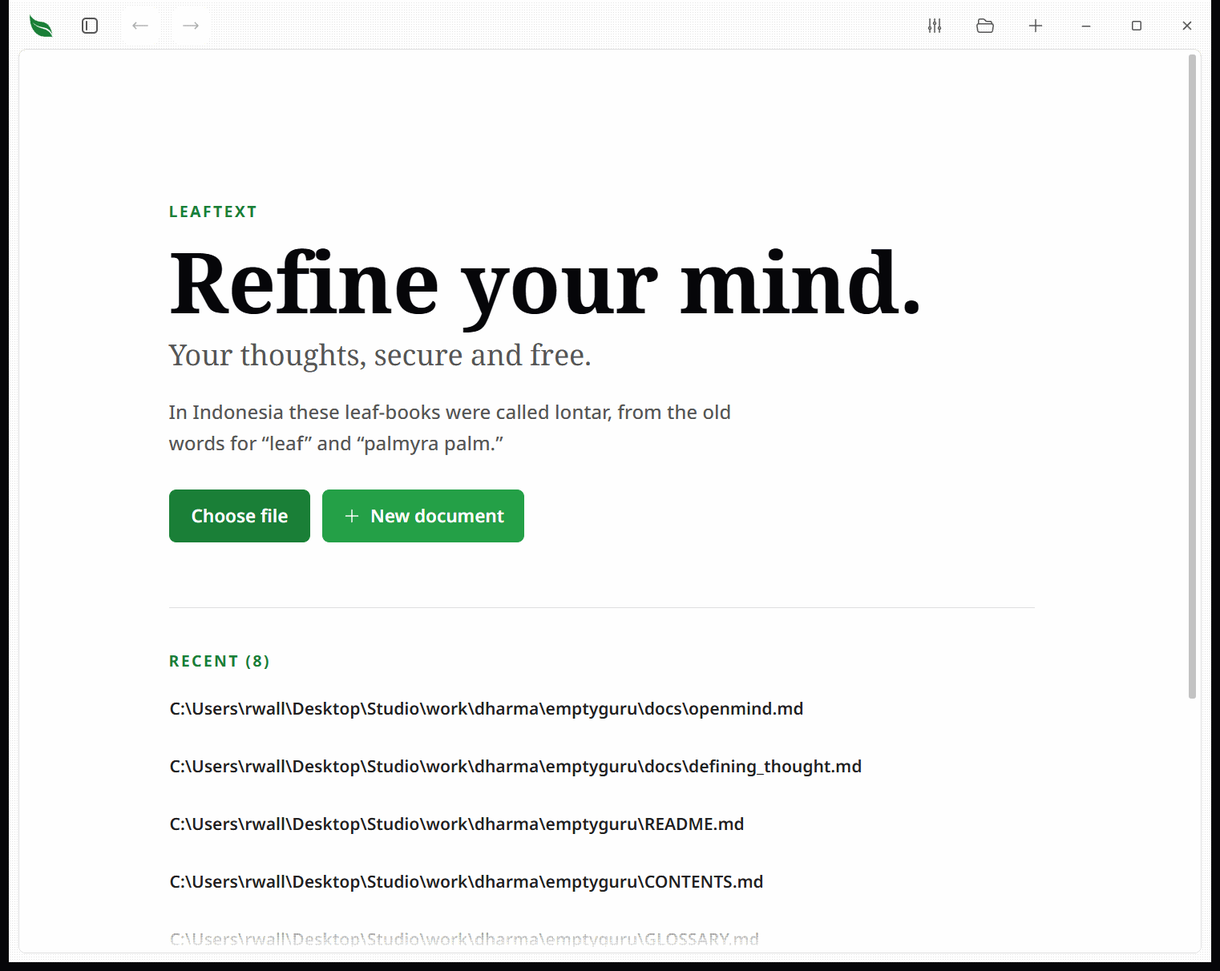
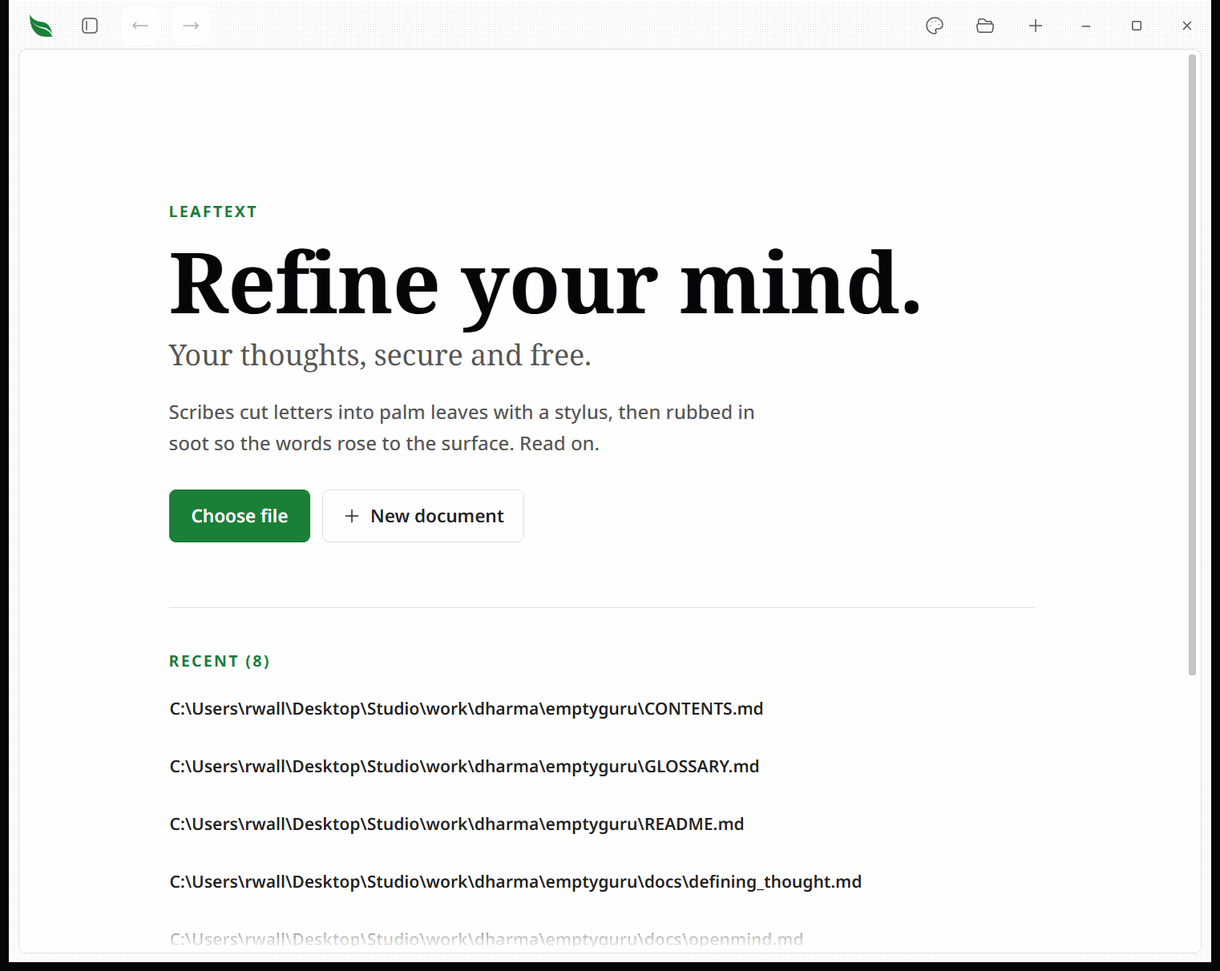
Sweep every Markdown file, not just the published pages
A folder of plans sat unswept because sync-docs worked off a page map written by
hand. check-docs.mjs walks both trees instead and fails on a file no role covers,
so a new folder stops the build until someone says who keeps it true.

The sweep it forces found three stale things: the app bar had no Settings button
but Navigation and the glossary both still named one, the missing-pictures plan
described a panel that is gone, and the building page listed two fewer checks
than run and miscounted the hooks. Retook the three screenshots wearing the old
gear. Editing now says a table keeps its column alignment.

diff --git a/AGENTS.md b/AGENTS.md
@@ -40,7 +40,7 @@ Rust desktop app for reading Markdown, XML, JSON and YAML — rendered document 
 
 ## Layout
 
-**`docs/02-development/01-architecture.md` is the file map** — every module, in more detail than belongs here. The rules that map carries, which no reading of the code will tell you:
+**[`docs/02-development/01-architecture.md`](docs/02-development/01-architecture.md) is the file map** — every module, in more detail than belongs here. The rules that map carries, which no reading of the code will tell you:
 
 - **Both crate roots share `src/`** — `lib.rs` (library) and `main.rs` (binary) — so a bare `mod tests;` in `main.rs` resolves to the library's `src/tests/`. That is why the binary's modules live under `src/app/`.
 - Where a subject is a directory, `mod.rs` holds the shared vocabulary and the pipeline that orders the stages; siblings hold one stage each. A directory's **types** stay module-wide (`pub(super)`); functions open up only where something calls them.
@@ -48,7 +48,7 @@ Rust desktop app for reading Markdown, XML, JSON and YAML — rendered document 
 - **`markdown/rawhtml.rs` is a security boundary** — what raw HTML may keep, standing between hostile input and the web view.
 - **`src/assets/shell/` is one scope, not modules.** The fragments concatenate in `APP_SHELL_SCRIPT_PARTS` order and are **served as `app.js` over `leaf-asset://`**, behind the page's one script tag — the page reaches WebView2 as one string with a ~2 MB ceiling, and the script was 88% of it. There is no module loader, so order is load-bearing and a fragment alone is not a valid program: `journal.js` leads (its error handlers are the only thing that sees a later fragment throw as it loads, and it must reach `window.ipc` directly — `send` in `dom.js` is a `const` in its dead zone until then), the flowchart pair follows (everything else calls into it), `state.js` after that and holding **only** what more than one fragment touches, and the last fragment ends with the bootstrap call. Nothing is substituted into the script, which is why it can be a file at all.
 - **Mermaid diagrams take the theme's own tokens**, mapped in `decorate.js`. Never a per-theme diagram palette. The `cScale` categorical scale is ours, named entry by entry, held to one luminance — v0.1.423 shipped near-black boxes with near-black labels by leaving it to mermaid's arithmetic.
-- **`design/` is the source of a token, `themes/` of a color's value.** `design/colors.md` lists the 82 names and compiles to the contract in `theme.rs`; `design/tokens.md` holds the other 162 values and compiles to `src/assets/tokens.css`; `design/icons.md` lists the icons and compiles to `src/assets/icons.css`, one `.lt-icon-*` mask class each; `design/components.md` is a row per component, with the markup it is drawn with. `gallery.html` — every theme, color, icon and component on one page, at leaftext.com — is built from all four; it is a page in the repo, not a feature in the app. `just bundle-tokens`, `bundle-icons`, `bundle-gallery` and `bundle-design-docs` generate; their `check-` twins fail on drift, on a theme row nobody lists, on an SVG with no row, and on a component with no sample to draw it with. `themes/` holds the values, compiled by `just bundle-themes`. Never edit a generated file. `theme.rs` emits a property for any row it finds, so a stale row would be dead CSS in every theme.
+- **`design/` is the source of a token, `themes/` of a color's value.** [`design/colors.md`](design/colors.md) lists the 82 names and compiles to the contract in `theme.rs`; [`design/tokens.md`](design/tokens.md) holds the other 162 values and compiles to `src/assets/tokens.css`; [`design/icons.md`](design/icons.md) lists the icons and compiles to `src/assets/icons.css`, one `.lt-icon-*` mask class each; [`design/components.md`](design/components.md) is a row per component, with the markup it is drawn with. `gallery.html` — every theme, color, icon and component on one page, at leaftext.com — is built from all four; it is a page in the repo, not a feature in the app. `just bundle-tokens`, `bundle-icons`, `bundle-gallery` and `bundle-design-docs` generate; their `check-` twins fail on drift, on a theme row nobody lists, on an SVG with no row, and on a component with no sample to draw it with. [`themes/`](themes/README.md) holds the values — one file per family, all eleven linked from that folder's own page — compiled by `just bundle-themes`. Never edit a generated file. `theme.rs` emits a property for any row it finds, so a stale row would be dead CSS in every theme.
 - **An icon reaches the page as a name, not a drawing** — `<span class="lt-icon lt-icon-back">` — so one used five times is in the app once. A mask reads only alpha, so the control's own `currentColor` paints it, and a control with a bolder active state swaps to a second mask (`--lt-icon-*-heavy`) rather than thickening a stroke a mask does not have — the same reason a `stroke-width` in `reading.css` aimed at an `.lt-icon` does nothing. Even the broken-image mark is a mask: it stays an `<img>` so a later fetch can go back to its own source, with `src` on a transparent pixel purely to stop the platform drawing its glyph over ours. **The line weight is `design/icons.md`'s, not the drawing's** — a `Stroke` cell per row, one of three named weights, stamped over whatever the file was saved at; `just check-icons` names a file that disagrees. Seven weights had drifted in before that column existed.
 - **Every class in `reading.css` is accounted for in `design/components.md`** — as a component (with the markup the gallery draws it with), as something a rendered document brings, or as a state. `just check-classes` fails on one that is not, so new interface joins the design system rather than growing beside it, and a component that appears there appears in the gallery by existing.
 - **No hand-written value in `reading.css`.** A color, spacing, text size, weight, stroke, line height, letter spacing, opacity, duration, easing, shadow or layer comes from a token; `just check-literals` fails on one and names the line. Widths, heights, positional offsets and a document's `em` sizing are not tokens — they are one component's geometry, or they follow the text.
@@ -56,25 +56,25 @@ Rust desktop app for reading Markdown, XML, JSON and YAML — rendered document 
 
 ## Skills
 
-In `.agents/skills/`, which `.claude/` and `.codex/` symlink to. Invoke by name.
+In [`.agents/skills/`](.agents/skills/), which `.claude/` and `.codex/` symlink to. Invoke by name; each row links the file that defines it.
 
 | skill | when |
 | --- | --- |
-| `check` | before handing work back. Runs `sync-tests`, then `just verify`, and names anything the change left untested. |
-| `sync-tests` | the change needs a test that would have caught it. `check` calls it. |
-| `sync-docs` | app behavior changed, or before a release. Edits `docs/`, never git. |
-| `code-comments` | the comment bar, in one place: why not what, one line if it fits, cut the drafting history. |
-| `design-tokens` | changing how the app looks. A value goes in `design/`, never into a rule. |
-| `add-dependency` | a new crate. Reports what it drags in, then asks. |
-| `add-format` | teaching the app another file type. One arm in `format.rs`. |
-| `shell-fragment` | adding, splitting or reordering a front-end fragment. Order is load-bearing. |
-| `ticket` | scoping work instead of building it. Writes a phased plan with checkboxes into `../docs/features/` or `../docs/refactor/`, and keeps `../docs/README.md` — the one line per ticket that says what shipped, what is planned and what was turned down. Read that index before planning anything; it is the only thing standing between a new plan and one this tree already answered. |
-| `refine` | reviewing a ticket before anyone builds it. Opens every line it cites, holds the plan against the rules here, fixes it, and records what was wrong. |
-| `git-release` | only on `/git-release`. Runs `sync-docs`, `code-comments` and `check`, then commits, tags and pushes. |
+| [`check`](.agents/skills/check/SKILL.md) | before handing work back. Runs `sync-tests`, then `just verify`, and names anything the change left untested. |
+| [`sync-tests`](.agents/skills/sync-tests/SKILL.md) | the change needs a test that would have caught it. `check` calls it. |
+| [`sync-docs`](.agents/skills/sync-docs/SKILL.md) | app behavior changed, or before a release. Edits `docs/` and the ticket index next door, never git. |
+| [`code-comments`](.agents/skills/code-comments/SKILL.md) | the comment bar, in one place: why not what, one line if it fits, cut the drafting history. |
+| [`design-tokens`](.agents/skills/design-tokens/SKILL.md) | changing how the app looks. A value goes in `design/`, never into a rule. |
+| [`add-dependency`](.agents/skills/add-dependency/SKILL.md) | a new crate. Reports what it drags in, then asks. |
+| [`add-format`](.agents/skills/add-format/SKILL.md) | teaching the app another file type. One arm in `format.rs`. |
+| [`shell-fragment`](.agents/skills/shell-fragment/SKILL.md) | adding, splitting or reordering a front-end fragment. Order is load-bearing. |
+| [`ticket`](.agents/skills/ticket/SKILL.md) | scoping work instead of building it. Writes a phased plan with checkboxes into `../docs/features/` or `../docs/refactor/`, and keeps `../docs/README.md` — the one line per ticket that says what shipped, what is planned and what was turned down. Read that index before planning anything; it is the only thing standing between a new plan and one this tree already answered. |
+| [`refine`](.agents/skills/refine/SKILL.md) | reviewing a ticket before anyone builds it. Opens every line it cites, holds the plan against the rules here, fixes it, and records what was wrong. |
+| [`git-release`](.agents/skills/git-release/SKILL.md) | only on `/git-release`. Runs `sync-docs`, `code-comments` and `check`, then commits, tags and pushes. |
 
 ## Hooks
 
-In `.claude/settings.json`, pointing at `scripts/`. Each runs by hand with `--check`, and `just verify` runs all four.
+In [`.agents/settings.json`](.agents/settings.json) — `.claude/settings.json` is the same file through the symlink — pointing at `scripts/`. Each runs by hand with `--check`, and `just verify` runs all four.
 
 - `gate-rules.mjs` on `UserPromptSubmit` — prints Rule 1 out of this file before every message, plus a line for whatever the message touches, and records the license in `.tmp/git-license`. Granted only when the message **starts** with `/git-release`: matching it anywhere let a message that merely quoted the string release v0.1.442. It also keeps the last 20 raw payloads in `.tmp/prompt-payloads.jsonl`, untracked — the license turns on what the host puts in `prompt`, and a turn where that went wrong is otherwise unreconstructable.
 - `gate-git.mjs` on the shell tools — refuses a git write when that file does not say the license was given this turn.
@@ -97,7 +97,7 @@ In `.claude/settings.json`, pointing at `scripts/`. Each runs by hand with `--ch
 
 ## Commands
 
-Needs `rustup`, `just`, `node`. `/check` is the gate before handing work back: `just verify` (fmt, check, test, vendor + theme + token + icon + gallery + docs drift, no hand-written values, US spelling, front-end boot, identity, the two hooks) with a test pass in front of it. `just check` / `test` / `format` / `check-shell` run individually.
+Needs `rustup`, `just`, `node`. `/check` is the gate before handing work back: `just verify` (fmt, check, test, vendor + theme + token + icon + gallery + docs drift, no hand-written values, US spelling, every Markdown file has something keeping it true, front-end boot, identity, the two hooks) with a test pass in front of it. `just check` / `test` / `format` / `check-shell` run individually.
 
 Mac code and the installer cannot be built on this machine, and never have been. **Never say so.** Not as a caveat, not as a footnote, not "it ships unproven", not when the change is in one of them — that is exactly when it is most obvious and least worth a line. GitHub builds both on a tagged release and a break shows up there. It is true every single time, so saying it is the padding Rule 1 refuses. The one exception is a direct question about it.
 

diff --git a/.agents/skills/sync-docs/SKILL.md b/.agents/skills/sync-docs/SKILL.md
@@ -1,13 +1,13 @@
 ---
 name: sync-docs
-description: Update the docs under docs/ (and the /docs site nav) so they match the current app. Reviews recent app/feature changes and edits the right doc page(s), keeping them renderable by the leaftext web renderer, takes any screenshot a page asks for and does not have, lints the whole set for the faults that live between pages (two pages contradicting each other, a stale count, a page nothing links to, a word used everywhere and defined nowhere, something learned this session and written down nowhere), then regenerates the SEO/AIO/LLM discovery files (robots.txt, sitemap.xml, sitemap-md.txt, llms.txt, llms-full.txt) so search and AI crawlers stay current. Run it before a release or whenever app behavior changes. Never touches git. Use when the user says "sync the docs", "update the docs", "bundle the docs", "refresh documentation", "update the sitemap/llms.txt", "lint the docs", or "make the docs match the code".
+description: Update the docs under docs/ (and the /docs site nav) so they match the current app. Reviews recent app/feature changes and edits the right doc page(s), keeping them renderable by the leaftext web renderer, takes any screenshot a page asks for and does not have, lints the whole set for the faults that live between pages (two pages contradicting each other, a stale count, a page nothing links to, a word used everywhere and defined nowhere, something learned this session and written down nowhere), then sweeps every other Markdown file in the repo and in the plan tree next door — enumerated off the disk by scripts/check-docs.mjs, so a page added anywhere is caught rather than remembered — moving a plan that now ships into done and its row in the ticket index with it, then regenerates the SEO/AIO/LLM discovery files (robots.txt, sitemap.xml, sitemap-md.txt, llms.txt, llms-full.txt) so search and AI crawlers stay current. Run it before a release or whenever app behavior changes. Never touches git. Use when the user says "sync the docs", "update the docs", "bundle the docs", "refresh documentation", "update the sitemap/llms.txt", "lint the docs", or "make the docs match the code".
 argument-hint: "[topic | since-ref]"
 user-invocable: true
 ---
 
 # Sync Docs
 
-Keep the user-facing documentation in `docs/` truthful to the app. This is a **docs-only** task: edit Markdown (and, if pages are added or removed, the site nav and README list), take any screenshot a page asks for and does not have (step 5), lint the whole set for the faults that live between pages (step 6), then regenerate the SEO/AIO/LLM discovery files with `scripts/seo-gen.mjs` (step 7). **Never run git** — releasing is a separate step handled by `/git-release`.
+Keep the user-facing documentation in `docs/` truthful to the app. This is a **docs-only** task: edit Markdown (and, if pages are added or removed, the site nav and README list), take any screenshot a page asks for and does not have (step 5), lint the whole set for the faults that live between pages (step 6), sweep every Markdown file in the repo and the plan tree next door, read off the disk rather than off a list (step 7), then regenerate the SEO/AIO/LLM discovery files with `scripts/seo-gen.mjs` (step 8). **Never run git** — releasing is a separate step handled by `/git-release`.
 
 The docs are served at **leaftext.com/docs** by the static SPA in `docs/` (`index.html` + `docs.js` + `docs.css`). Each page is a plain `.md` file; `docs.js` renders it with the same renderer the root site uses (`site/markdown.js`) and routes by `#/<path>` (a route is the file path under `docs/` without `.md`).
 
@@ -210,7 +210,46 @@ any time a change spanned more than one page.
 
 Say what the lint found in the hand-back, including anything left unfixed and why.
 
-### 7. Regenerate the SEO / AIO / LLM discovery files
+### 7. Every Markdown file, not just the published pages
+
+The page map in step 2 covers what the app publishes. It is not the whole set of
+writing this session can have made untrue, and a map written by hand is exactly
+what misses a folder somebody added last week. **Read the set off the disk:**
+
+```bash
+just check-docs                     # fail on a file no role covers
+node scripts/check-docs.mjs --list  # every Markdown file in both trees, and its role
+```
+
+The list is generated by walking the folders, so a page added anywhere shows up
+without anyone editing anything. **Work down it and ask one question of each file:
+did this session make a word of it untrue?** Only files where the answer is yes get
+edited — this is a sweep, not a rewrite of 150 documents.
+
+What each role means in practice:
+
+| Role | What makes it untrue, and what to do |
+|:--|:--|
+| **published** (`docs/`) | Behavior changed. Step 2's map says which page; step 3 says how to edit it |
+| **source of a token / a color** (`design/`, `themes/`) | Never edited here. A value changes in `design/` and the bundlers regenerate — see [`/design-tokens`](../design-tokens/SKILL.md) |
+| **a repeatable job** (`.agents/skills/`) | The steps a skill names moved, or a rule it enforces changed. A skill describing a script or a path that no longer exists is worse than no skill |
+| **the guide** (`AGENTS.md`, and `README.md`) | A standing rule changed, or the repo grew a file the guide's tables do not reach. Never a log of what shipped |
+| **a license notice** (`src/assets/*-MIT.md`) | Only when what is vendored changes |
+| **installer text** (`wix/`) | Only when the install flow changes |
+| **plan** (`../docs/features/`, `../docs/refactor/`, `../docs/fixes/`) | **The one this step exists for.** A plan for something that now ships is the most misleading writing in either tree: move the file to `../docs/done/`, and move its row in [`../docs/README.md`](../../../../docs/README.md) under Shipped saying what shipped. A plan half-built gets the built part struck through, not deleted |
+| **the running order** (`../docs/plans/`) | Each file is dated and ranks the live tickets on that date. When one ships, the newest ranking's rows about it are wrong. **Do not rewrite a dated ranking** — the date is the point. Note it in the index row, or write a new dated one |
+| **the ticket index** (`../docs/README.md`) | Its "What the folders mean" paragraph names every folder next door, and its "Needs a second look" table holds every ticket whose own status disagrees with the folder it sits in. A new folder or a settled status lands here |
+| **shipped / canceled / a test document** | Kept for the reasoning. Left alone unless it is now factually wrong about the app |
+
+**A file with no role fails `just check-docs` and names itself.** That is the
+backstop: add a new kind of document and the suite stops until this table says who
+keeps it true. Fixing it means adding the folder to `ROLES` in
+`scripts/check-docs.mjs` *and* a row above — never just the script.
+
+Never link from `docs/` into `../docs/`: those pages are published and that folder
+is not. Links only go the other way.
+
+### 8. Regenerate the SEO / AIO / LLM discovery files
 
 The files AI crawlers and search engines read are generated from the docs, not hand-maintained. After editing docs — and always after adding or removing a page — regenerate them:
 
@@ -228,11 +267,11 @@ It rewrites five files at the repo root (the deployed site root) from `README.md
 
 Page list, titles, summaries, and `<lastmod>` dates are all derived from the current files, so there is no list to maintain by hand. It is deterministic — byte-identical output for the same tree, so a no-op run leaves git untouched. (`<lastmod>` reads the last commit date per file; it refreshes on the next run after you commit.)
 
-### 8. Verify
+### 9. Verify
 
 - Grep the changed files for leftovers: no `<Tabs`, `<Card`, `<Step`, `<Note`, `<Tip`, `<Warning`, `<Accordion`, or `theme={null}`.
 - `node scripts/doc-images.mjs` — every picture a touched page asks for is there, and any that are not are named in the hand-back with the reason.
-- Re-run `node scripts/seo-gen.mjs` and confirm it leaves the discovery files unchanged (a dirty tree here means step 7 was skipped or a doc changed after it ran).
+- Re-run `node scripts/seo-gen.mjs` and confirm it leaves the discovery files unchanged (a dirty tree here means step 8 was skipped or a doc changed after it ran).
 - For every touched page, confirm each Summary/overview table, shortcut list, and enumerated command/settings/feature table matches the source one-for-one — no stale, missing, or extra rows.
 - Confirm every internal link resolves to a real `.md` / route, and that each `#anchor` (including the anchor half of a deep link) matches a real heading slug on the target page.
 - Scan touched pages and the README intro for feature/concept names left as plain text that have a doc page or section — link them, deep-linking to the section anchor where one exists.
@@ -250,7 +289,7 @@ Page list, titles, summaries, and `<lastmod>` dates are all derived from the cur
   node docs/render-docs-check.mjs   # renders every docs/*.md and fails on a throw
   ```
 
-### 9. Hand back — do NOT release
+### 10. Hand back — do NOT release
 
 Leave the changes uncommitted. Tell the user what pages changed, and what the lint
 found that is still open. If they want it published, that is a separate, explicit `/git-release` (site-only: no version bump).

diff --git a/docs/02-development/02-building.md b/docs/02-development/02-building.md
@@ -47,13 +47,13 @@ Before submitting a contribution, run the full suite:
 just verify
 ```
 
-This runs formatting, type checking, the tests, the drift checks over everything that is generated, the design-system rules, the spelling check, the front-end check, and the two repo guards, in sequence. All steps must pass. The `verify` recipe is defined in the project `Justfile` as:
+This runs formatting, type checking, the tests, the drift checks over everything that is generated, the design-system rules, the spelling check, the front-end check, the docs-coverage check, and the repo guards, in sequence. All steps must pass. The `verify` recipe is defined in the project `Justfile` as:
 
 ```text
-verify: format-check check test check-vendor check-themes check-tokens check-icons check-gallery check-design-docs check-classes check-literals check-verify check-spelling check-shell check-identity check-hooks
+verify: format-check check test check-vendor check-themes check-tokens check-icons check-gallery check-design-docs check-classes check-literals check-verify check-spelling check-docs check-shell check-identity check-hooks check-mcp
 ```
 
-The design-system steps are the ones worth knowing about. `check-tokens`, `check-icons`, `check-gallery` and `check-design-docs` fail when a generated file has drifted from the four files in `design/` it is built from — the stylesheet's fixed values, the icon classes, the page at [leaftext.com/gallery.html](https://leaftext.com/gallery.html), and [Design system](05-design-system.md). `check-classes` fails on a class in `reading.css` that `design/components.md` does not account for, so new interface joins the design system rather than growing beside it. `check-literals` fails on a color, size, spacing or duration typed into `reading.css` instead of coming from a value. `check-verify` fails when a check exists but this recipe does not run it. `check-identity` fails on an assistant credited anywhere in the repo or its history, and `check-hooks` self-tests the three hooks.
+The design-system steps are the ones worth knowing about. `check-tokens`, `check-icons`, `check-gallery` and `check-design-docs` fail when a generated file has drifted from the four files in `design/` it is built from — the stylesheet's fixed values, the icon classes, the page at [leaftext.com/gallery.html](https://leaftext.com/gallery.html), and [Design system](05-design-system.md). `check-classes` fails on a class in `reading.css` that `design/components.md` does not account for, so new interface joins the design system rather than growing beside it. `check-literals` fails on a color, size, spacing or duration typed into `reading.css` instead of coming from a value. `check-verify` fails when a check exists but this recipe does not run it. `check-docs` fails on a Markdown file — in this repo or the plan folder beside it — that no role covers, so a new kind of document has to say who keeps it true rather than quietly going stale. `check-identity` fails on an assistant credited anywhere in the repo or its history, and `check-hooks` self-tests the four hooks.
 
 A passing `just verify` is the baseline requirement before handing any work back.
 
@@ -63,7 +63,7 @@ Theme palettes work the same way: `src/assets/themes.md` (embedded in the binary
 
 Spelling comes next: this repo writes US English, so `check-spelling` fails on the British form of any word in `scripts/check-spelling.mjs`'s list — the `-our` spelling of "color", for one. It reads only files the repo authors: vendored bundles, build output, and generated files are skipped, and the two identifiers that are British by specification (`aria-labelledby`, WiX's `ProgramMenuFolder`) are exempt.
 
-The last step is `check-shell`, which runs the WebView front-end rather than reading it. The script fragments in `src/assets/shell/` are concatenated the way the binary concatenates them and executed against a stand-in page built from the ids and classes the real markup declares, so nothing has to be listed twice. It fails if the script does not parse, if it throws as it loads — which is what a declaration moved below its first use does, and the reason fragment order is load-bearing — or if the code view's edit arithmetic is wrong. That last one matters most: the editor sends the host only the part of the text that changed, and the host splices it into what it writes to disk, so each case is checked by rebuilding the new text from the splice.
+`check-shell` runs the WebView front-end rather than reading it. The script fragments in `src/assets/shell/` are concatenated the way the binary concatenates them and executed against a stand-in page built from the ids and classes the real markup declares, so nothing has to be listed twice. It fails if the script does not parse, if it throws as it loads — which is what a declaration moved below its first use does, and the reason fragment order is load-bearing — or if the code view's edit arithmetic is wrong. That last one matters most: the editor sends the host only the part of the text that changed, and the host splices it into what it writes to disk, so each case is checked by rebuilding the new text from the splice.
 
 ## Individual tasks
 
@@ -85,9 +85,10 @@ Each step in the verification pipeline can also be run on its own:
 | Values written by hand | `just check-literals` | Fail on a color, size, spacing or duration typed into `reading.css` |
 | Suite check  | `just check-verify`         | Fail when a check exists that `verify` does not run |
 | Spelling     | `just check-spelling`       | Fail on British spelling in the repo's own writing |
+| Docs coverage | `just check-docs`          | Fail on a Markdown file that nothing keeps true. `node scripts/check-docs.mjs --list` prints every one and its role |
 | Front end    | `just check-shell`          | Run the page's script against a stand-in page: it parses, it boots, and its edit offsets are right |
 | Identity     | `just check-identity`       | Fail on an assistant credited in the repo or its history |
-| Hooks        | `just check-hooks`          | Self-test the three hooks |
+| Hooks        | `just check-hooks`          | Self-test the four hooks |
 | Ask pipe     | `just check-mcp`            | Fail when the MCP wrapper and `src/pipe.rs` disagree about what can be asked, or where |
 | Full verify  | `just verify`               | All steps above in sequence                    |
 

diff --git a/docs/01-features/07-editing.md b/docs/01-features/07-editing.md
@@ -51,6 +51,7 @@ The **+** beside Open in the app bar starts a blank document in a new tab. The h
 The rendered page is a live editor. The **source stays the single source of truth** — every edit is anchored to the exact byte range of the source it came from and spliced back there, so what you see and what is saved never drift apart. Editing is intentional per block and never rewrites parts of the file you did not touch.
 
 - **Click into a sentence and type.** Paragraphs, headings, **lists, tables, and block quotes** edit in place with their styling intact — bold stays bold, links stay links, table pipes, list markers, and `>` prefixes are rewritten for you — and your change is written back into the Markdown at that spot. Interactive **checkboxes** toggle their `[ ]` / `[x]` marker in the source, in task lists and [table cells](01-rendering.md#tables) alike. A checkbox is a quick action rather than an edit: it saves to disk immediately, records no undo step, and stays clickable even when reading-view editing is turned off.
+- **A table keeps its column alignment.** The `:---` / `:---:` / `---:` markers in the divider row survive an edit, including one that changes how many columns the table has — the row is rebuilt from the alignment each column is already drawn with, rather than copied from the old source. See [Tables](01-rendering.md#tables).
 - **Blocks behave like a block editor.** `Enter` splits a block at the caret — a split heading stays a heading at the same level — or starts a fresh paragraph when pressed at the end (keep pressing to keep writing). `Shift+Enter` inserts a line break, and `Backspace` at the very start of a block merges it into the one above, with the caret staying put. In a list, `Enter` adds an item and `Backspace` joins items.
 - **Every other block edits its exact source.** Code blocks, [alerts](01-rendering.md#blockquotes-and-alerts), loose lists, blocks with images, footnotes, or math, and blocks containing raw HTML tags outside a small safe set (links, line breaks, bold, italic, strikethrough, inline code, and the inline HTML tags Leaftext can rebuild exactly — `<abbr>`, `<kbd>`, `<mark>`, `<ins>`, `<sub>`, `<sup>`, `<span>`, and `<div>`) open their raw source in place when you click them, then splice back on the way out. This is also how **[XML](01-rendering.md#xml)** edits: XML carries meaning the rendered HTML cannot reconstruct, so an XML block is edited as its true source.
 - **A code block hands you the code, not the fences.** Click into one and you get what is inside the ``` ``` ``` lines; the fences and the language tag stay out of reach, so there is no way to backspace through them and lose the block. Delete every line and you still have an empty code block. An indented code block has no fences to hide, and neither does an unterminated one — those open whole, as before.

diff --git a/docs/01-features/02-navigation.md b/docs/01-features/02-navigation.md
@@ -48,6 +48,9 @@ flowchart LR
 | Save (with [unsaved edits](07-editing.md#save)) | `Ctrl+S` | `Cmd+S` |
 | [Undo](07-editing.md#undo) the last reading-view edit | `Ctrl+Z` | `Cmd+Z` |
 | Select the page (reading view) | `Ctrl+A` | `Cmd+A` |
+| [Bold](07-editing.md#the-format-bar) the highlighted words | `Ctrl+B` | `Cmd+B` |
+| [Italic](07-editing.md#the-format-bar) the highlighted words | `Ctrl+I` | `Cmd+I` |
+| [Link](07-editing.md#the-format-bar) the highlighted words | `Ctrl+K` | `Cmd+K` |
 
 Tab cycling is `Ctrl`-based on every platform, including macOS. Mouse side buttons also trigger Back and Forward.
 
@@ -57,9 +60,11 @@ Two bars. The one at the top is about the app; the one floating at the foot of t
 
 ### The app bar
 
-![The Leaftext app bar across the top of the window: the leaf mark, the library button, Back and Forward, the tab strip, then Open, plus and Settings at the right](../../imgs/navigation.png)
+![The Leaftext app bar across the top of the window: the leaf mark, the library button, Back and Forward, the tab strip, then the theme palette, Open and plus at the right](../../imgs/navigation.png)
 
-The leaf mark at the left is the way home — click it to return to the no-file screen. Beside it sit the library button, Back and Forward, then the tab strip, and at the right Open, **+** ([new document](07-editing.md#new-document)) and Settings. Those three are about the app rather than the document, which is why they are up here and not on the floating toolbar.
+The leaf mark at the left is the way home — click it to return to the no-file screen. Beside it sit the library button, Back and Forward, then the tab strip, and at the right the palette that opens the [theme picker](06-themes.md#choose), Open, and **+** ([new document](07-editing.md#new-document)). Those are about the app rather than the document, which is why they are up here and not on the floating toolbar.
+
+**There is no Settings button.** Every control stands where it applies — see [Settings](05-settings.md). The one thing that comes and goes is the [update](05-settings.md#updates) bell, which is in the bar only while there is something to download or install.
 
 On Windows the app bar doubles as the title bar — see [Themes → Windows](06-themes.md#windows).
 

diff --git a/README.md b/README.md
@@ -289,3 +289,17 @@ Other [`Justfile`](Justfile) tasks:
 | Cut a release | `just release <version>` |
 
 `just release` commits the version bump, tags, and pushes — CI builds the Windows MSI and the macOS DMG.
+
+### Every written file in the repo
+
+The prose, the design sources, and the guidance an agent reads — each of these links onward to the rest of its own set, so nothing in the tree is reachable only by knowing it is there.
+
+| Where | What is in it |
+|:--|:--|
+| [Documentation](docs/README.md) | Every page published at [leaftext.com/docs](https://leaftext.com/docs), listed above |
+| [Glossary](docs/GLOSSARY.md) | Every word Leaftext uses for a part of itself |
+| [Agent guide](AGENTS.md) | The standing rules for anyone — person or agent — changing this repo. `CLAUDE.md` and `CODEX.md` are the same file. Its tables link the eleven [skills](.agents/skills/) and the [hook settings](.agents/settings.json) |
+| [Design sources](docs/02-development/05-design-system.md) | [Colors](design/colors.md), [tokens](design/tokens.md), [icons](design/icons.md) and [components](design/components.md) — the four files every value in the interface is compiled from |
+| [Themes](themes/README.md) | The eleven families, one Markdown file each, with the colors they set. `just bundle-themes` compiles them into [one bundle](src/assets/themes.md) the app reads at startup |
+| Third-party notices | [Heroicons](src/assets/Heroicons-MIT.md), [KaTeX](src/assets/KaTeX-MIT.md), [Lucide](src/assets/Lucide-ISC.md), [Noto](src/assets/Noto-OFL.md) — the licenses of what is vendored into the app |
+| Crawler files | [`robots.txt`](robots.txt), [`sitemap.xml`](sitemap.xml), [`sitemap-md.txt`](sitemap-md.txt), [`llms.txt`](llms.txt), [`llms-full.txt`](llms-full.txt) — generated from this file and `docs/` by `scripts/seo-gen.mjs` |

diff --git a/.agents/skills/check/SKILL.md b/.agents/skills/check/SKILL.md
@@ -1,6 +1,6 @@
 ---
 name: check
-description: The gate before work is handed back or released. Runs /sync-tests so the change has a test, then `just verify` — sixteen steps: formatting, compile, tests, no hand-written value in the stylesheet, every class and token and icon and component listed in `design/`, the gallery and the published design page in step with it, US spelling, the front-end boots, no assistant identity in the repo, the two hooks, and that every check is in the suite. A failure is fixed and re-run, never explained past. Never mentions that the Mac build, the installer or the GitHub workflows do not run here — that is true every time and GitHub builds them on a tagged release. Never touches git. Use when the user says "check it", "verify", or before handing work back; /git-release calls it before it commits.
+description: The gate before work is handed back or released. Runs /sync-tests so the change has a test, then `just verify` — eighteen steps: formatting, compile, tests, no hand-written value in the stylesheet, every class and token and icon and component listed in `design/`, the gallery and the published design page in step with it, US spelling, every Markdown file in the repo and the plan tree next door covered by something that keeps it true, the front-end boots, no assistant identity in the repo, the two hooks, and that every check is in the suite. A failure is fixed and re-run, never explained past. Never mentions that the Mac build, the installer or the GitHub workflows do not run here — that is true every time and GitHub builds them on a tagged release. Never touches git. Use when the user says "check it", "verify", or before handing work back; /git-release calls it before it commits.
 argument-hint: ""
 user-invocable: true
 ---

diff --git a/docs/GLOSSARY.md b/docs/GLOSSARY.md
@@ -16,8 +16,11 @@ called a callout. See [Rendering](01-features/01-rendering.md#blockquotes-and-al
 ## App bar
 
 The strip along the top of the window: the leaf mark, the [library pane](GLOSSARY.md#library-pane)
-button, Back and Forward, the [tab](GLOSSARY.md#tab) strip, then Open, **+** and
-Settings at the right. On Windows it is also the title bar — drag it to move the
+button, Back and Forward, the [tab](GLOSSARY.md#tab) strip, then the palette that
+opens the [theme picker](GLOSSARY.md#theme-picker), Open and **+** at the right.
+There is no Settings button; the [update bell](GLOSSARY.md#update-bell) joins the
+right-hand group only while there is something to install.
+On Windows it is also the title bar — drag it to move the
 window, double-click it to maximize or restore. What it holds is about the app;
 what the [floating toolbar](GLOSSARY.md#floating-toolbar)
 holds is about the document.
